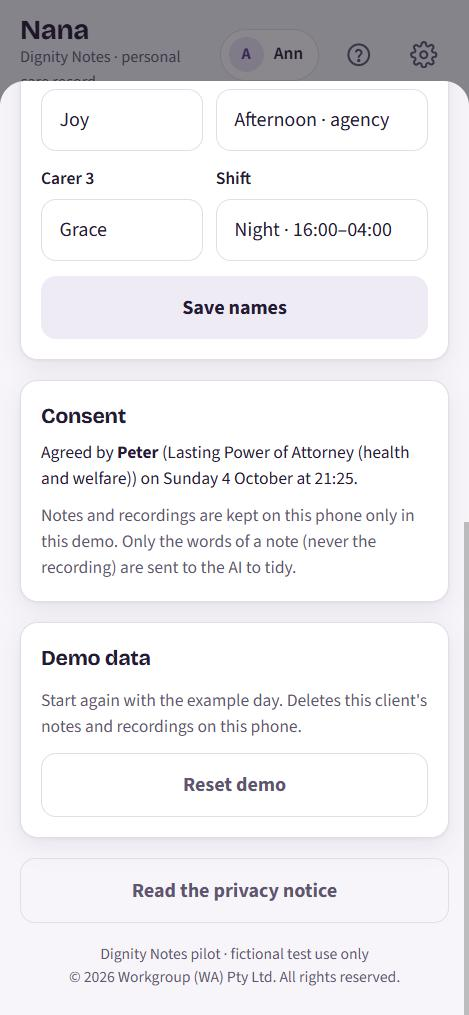
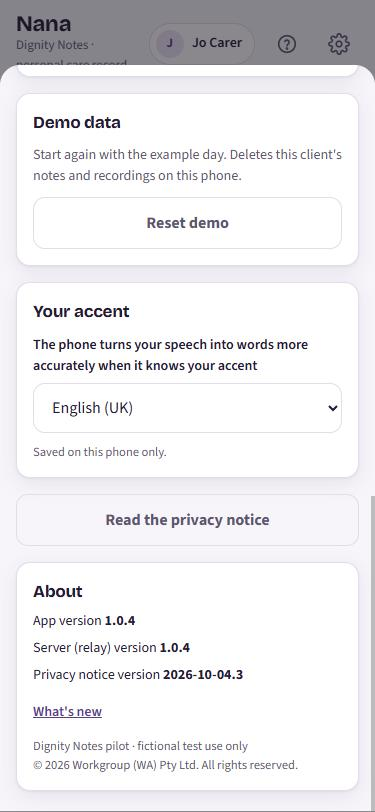
User manual up to date: new screenshots, accent, About, To note, Points to note, version FAQ

diff --git a/manual.html b/manual.html
@@ -219,7 +219,7 @@ footer{color:var(--ink-2);font-size:14px;text-align:center;margin-top:30px}
       <li><strong>Previous handover:</strong> what the last carer passed on to you.</li>
     </ul>
     <p>The tabs along the bottom take you to <strong>Today</strong>, <strong>Record log</strong>, <strong>Record</strong>, <strong>Handover</strong> and <strong>Family</strong>. The red number on Today shows how many things need attention.</p>
-  </div><figure><img src="manual/06-today.jpg" alt="Today screen with record button, Needs attention and previous handover" loading="lazy" width="469" height="1015"><figcaption>The Today screen</figcaption></figure></div>
+  </div><figure><img src="manual/06-today.jpg" alt="Today screen with record button, a To note flag about low fluid intake overnight, and the previous handover" loading="lazy" width="469" height="1015"><figcaption>The Today screen</figcaption></figure></div>
   <div class="step"><div>
     <h3>Further down</h3>
     <ul>
@@ -263,7 +263,12 @@ footer{color:var(--ink-2);font-size:14px;text-align:center;margin-top:30px}
     <p>Your original words and recording are kept with the note. Tap <strong>What you said</strong> to see them.</p>
     <p>A small label at the top says how the note was written. <strong>Tidied by AI</strong> means the AI wrote it. <strong>Basic tidy</strong> means there was no internet, so the app did a simpler tidy on the phone.</p>
     <p class="tip">Not happy? Tap <strong>Re-record</strong> to try again, or <strong>Discard</strong> to throw it away. Both ask you to tap twice, so you don't lose a note by accident.</p>
-  </div><figure><img src="manual/09-review.jpg" alt="Check before saving screen showing the tidy care note, topics covered, an incident flag and Save to record" loading="lazy" width="469" height="1015"><figcaption>Check the note, then Save to record</figcaption></figure></div>
+  </div><figure><img src="manual/09-review.jpg" alt="Check before saving: the tidy care note, then Check these words with the accent setting" loading="lazy" width="469" height="1015"><figcaption>Check the note and any misheard words</figcaption></figure></div>
+  <div class="step"><div>
+    <h3>Topics and flags</h3>
+    <p><strong>Covers</strong> lists the topics in the note. Below it, <strong>Flags</strong> shows anything the app has picked out: a red <strong>Incident</strong> for something that needs a formal record, or a yellow <strong>To note</strong> for a fact the next carer should know. Tap <strong>Remove</strong> on any flag that isn't right before you save.</p>
+    <p class="tip">If <strong>Check these words</strong> appears often, choose your accent in the box shown, or in <strong>Settings → Your accent</strong>. It applies from your next recording.</p>
+  </div><figure><img src="manual/09b-review-flags.jpg" alt="Covers topics, then an Incident flag for a new mark on the forearm and a To note flag for low fluid intake, each with Remove" loading="lazy" width="375" height="812"><figcaption>Topics and flags before saving</figcaption></figure></div>
 </section>
 
 <!-- 7 -->
@@ -283,7 +288,7 @@ footer{color:var(--ink-2);font-size:14px;text-align:center;margin-top:30px}
       <li>Tap <strong>Resolved</strong>. The app records who resolved it and when.</li>
     </ol>
     <div class="callout info"><strong>Incidents and safeguarding</strong>The app helps you record what happened. It does not report anything for you. If someone may be at risk, follow your usual safeguarding steps and contact the right people straight away.</div>
-  </div><figure><img src="manual/10-flags.jpg" alt="Needs attention showing a red incident flag and a yellow follow-up flag, each with a Resolved button" loading="lazy" width="469" height="1015"><figcaption>Open flags on the Today screen</figcaption></figure></div>
+  </div><figure><img src="manual/10-flags.jpg" alt="Needs attention showing a red incident flag and two yellow To note flags, each with a Resolved button" loading="lazy" width="469" height="1015"><figcaption>Open flags on the Today screen</figcaption></figure></div>
 </section>
 
 <!-- 8 -->
@@ -299,7 +304,7 @@ footer{color:var(--ink-2);font-size:14px;text-align:center;margin-top:30px}
     </ol>
     <p>Each note shows the time, the carer who saved it, any flags and the topics it covers.</p>
     <p class="tip">The original recording protects you as well as the client. If there's ever a question about what happened, your own words are there.</p>
-  </div><figure><img src="manual/11-log.jpg" alt="Record log showing today's note with an incident chip, topics and the original words" loading="lazy" width="469" height="1015"><figcaption>The record log</figcaption></figure></div>
+  </div><figure><img src="manual/11-log.jpg" alt="Record log with Everything, Incidents and To note filters, showing today's note with its flags, topics and original words" loading="lazy" width="469" height="1015"><figcaption>The record log</figcaption></figure></div>
 </section>
 
 <!-- 9 -->
@@ -378,7 +383,7 @@ footer{color:var(--ink-2);font-size:14px;text-align:center;margin-top:30px}
     <p>The handover is saved in the record log and shown under <strong>Previous handover</strong> on the Today screen. Past handovers are under <strong>Recent handovers</strong>.</p>
     <p>If you're the only carer on this client so far, there's no one to choose: the handover is saved for the next carer.</p>
     <div class="callout info"><strong>In this pilot</strong>Notes and handovers stay on the phone they were made on. The next carer sees your handover if they use the same phone; otherwise, share it with them as you do now. Sharing between phones is planned for a later version.</div>
-  </div><figure><img src="manual/12-handover.jpg" alt="Handover screen with the written handover, Handing over to, and Approve and hand over" loading="lazy" width="469" height="1015"><figcaption>Check, then Approve and hand over</figcaption></figure></div>
+  </div><figure><img src="manual/12-handover.jpg" alt="Handover screen: How the shift went and Points to note, then Handing over to" loading="lazy" width="469" height="1015"><figcaption>Check, then Approve and hand over</figcaption></figure></div>
 </section>
 
 <!-- 13 -->
@@ -423,9 +428,11 @@ footer{color:var(--ink-2);font-size:14px;text-align:center;margin-top:30px}
     <ul>
       <li><strong>Consent:</strong> who agreed to Dignity Notes being used for this client, and when.</li>
       <li><strong>Demo data:</strong> <strong>Reset demo</strong> deletes this client's notes and recordings on this phone and brings back the example day. It asks you to confirm first.</li>
+      <li><strong>Your accent:</strong> the English your phone listens for (UK, Australia, South Africa and others).</li>
       <li><strong>Read the privacy notice</strong> at any time.</li>
+      <li><strong>About:</strong> the app version, the server version and the privacy notice version. Tap <strong>What's new</strong> to see what changed in each version.</li>
     </ul>
-  </div><figure><img src="manual/21-settings-more.jpg" alt="Settings, lower: consent record, reset demo, privacy notice" loading="lazy" width="469" height="1015"><figcaption>Settings, lower down</figcaption></figure></div>
+  </div><figure><img src="manual/21-settings-more.jpg" alt="Settings, lower: reset demo, Your accent, privacy notice, and About with the app and server versions" loading="lazy" width="469" height="1015"><figcaption>Your accent and About</figcaption></figure></div>
 </section>
 
 <!-- 15 -->
@@ -527,6 +534,8 @@ footer{color:var(--ink-2);font-size:14px;text-align:center;margin-top:30px}
     <p>You haven't been added to that client yet. Ask your administrator to tick the client for you in <strong>Manage people</strong>. It appears the next time you open the app.</p></details>
   <details class="faq"><summary>Who can see what I record?</summary>
     <p>Notes and recordings stay on your phone. Only the <strong>words</strong> of a note (never the recording) are sent to the AI to be tidied, and they aren't kept. Administrators can see the list of people, sign-ins and feedback reports, but not your notes. The exception is a screenshot you choose to send with feedback: the administrators and the AI helper see whatever it shows. Read the full privacy notice in <strong>Settings</strong>.</p></details>
+  <details class="faq"><summary>Which version am I on?</summary>
+    <p>Go to <strong>Settings → About</strong>. The app and server versions should match. If they don't, close the app completely and open it again. If they still differ, tell your administrator.</p></details>
   <details class="faq"><summary>Something else is wrong</summary>
     <p>Tap <strong>?</strong>, then <strong>Report a problem</strong>. A screenshot helps a lot.</p></details>
 </section>

diff --git a/sw.js b/sw.js
@@ -1,5 +1,5 @@
 // Offline shell: network first (4 s timeout), cached copy when there is no or weak signal.
-const CACHE = "dignitynotes-1.0.4";
+const CACHE = "dignitynotes-1.0.5";
 self.addEventListener("install", (e) => { e.waitUntil(caches.open(CACHE).then((c) => c.addAll(["./", "./index.html", "./manual.html", "./icon-192.png", "./logo-wordmark.png", "./manifest.json"]))); self.skipWaiting(); });
 self.addEventListener("activate", (e) => { e.waitUntil(caches.keys().then((ks) => Promise.all(ks.filter((k) => k !== CACHE).map((k) => caches.delete(k))))); self.clients.claim(); });
 self.addEventListener("fetch", (e) => {

diff --git a/CHANGELOG.md b/CHANGELOG.md
@@ -1,5 +1,10 @@
 # Changelog
 
+## Since 1.0.0 (patch releases)
+
+- 1.0.4 and 1.0.5: "Check these words" suggests the accent setting, with the accent picker right there. User manual brought up to date (new screenshots; accent, About, To note, Points to note).
+- 1.0.1 to 1.0.3: Settings > About shows the app, server and privacy notice versions; automatic version numbering.
+
 ## 1.0.0 - 2026-10-06
 
 Versioning starts. Already in this release: voice notes with AI tidy and flags, handover, family page, clients with one-time agreement, carers assigned to clients with shifts, help and user manual, AI feedback reports, accent setting, iPhone recording fix, Sam's note rules (behaviour vs incident; facts not instructions).
